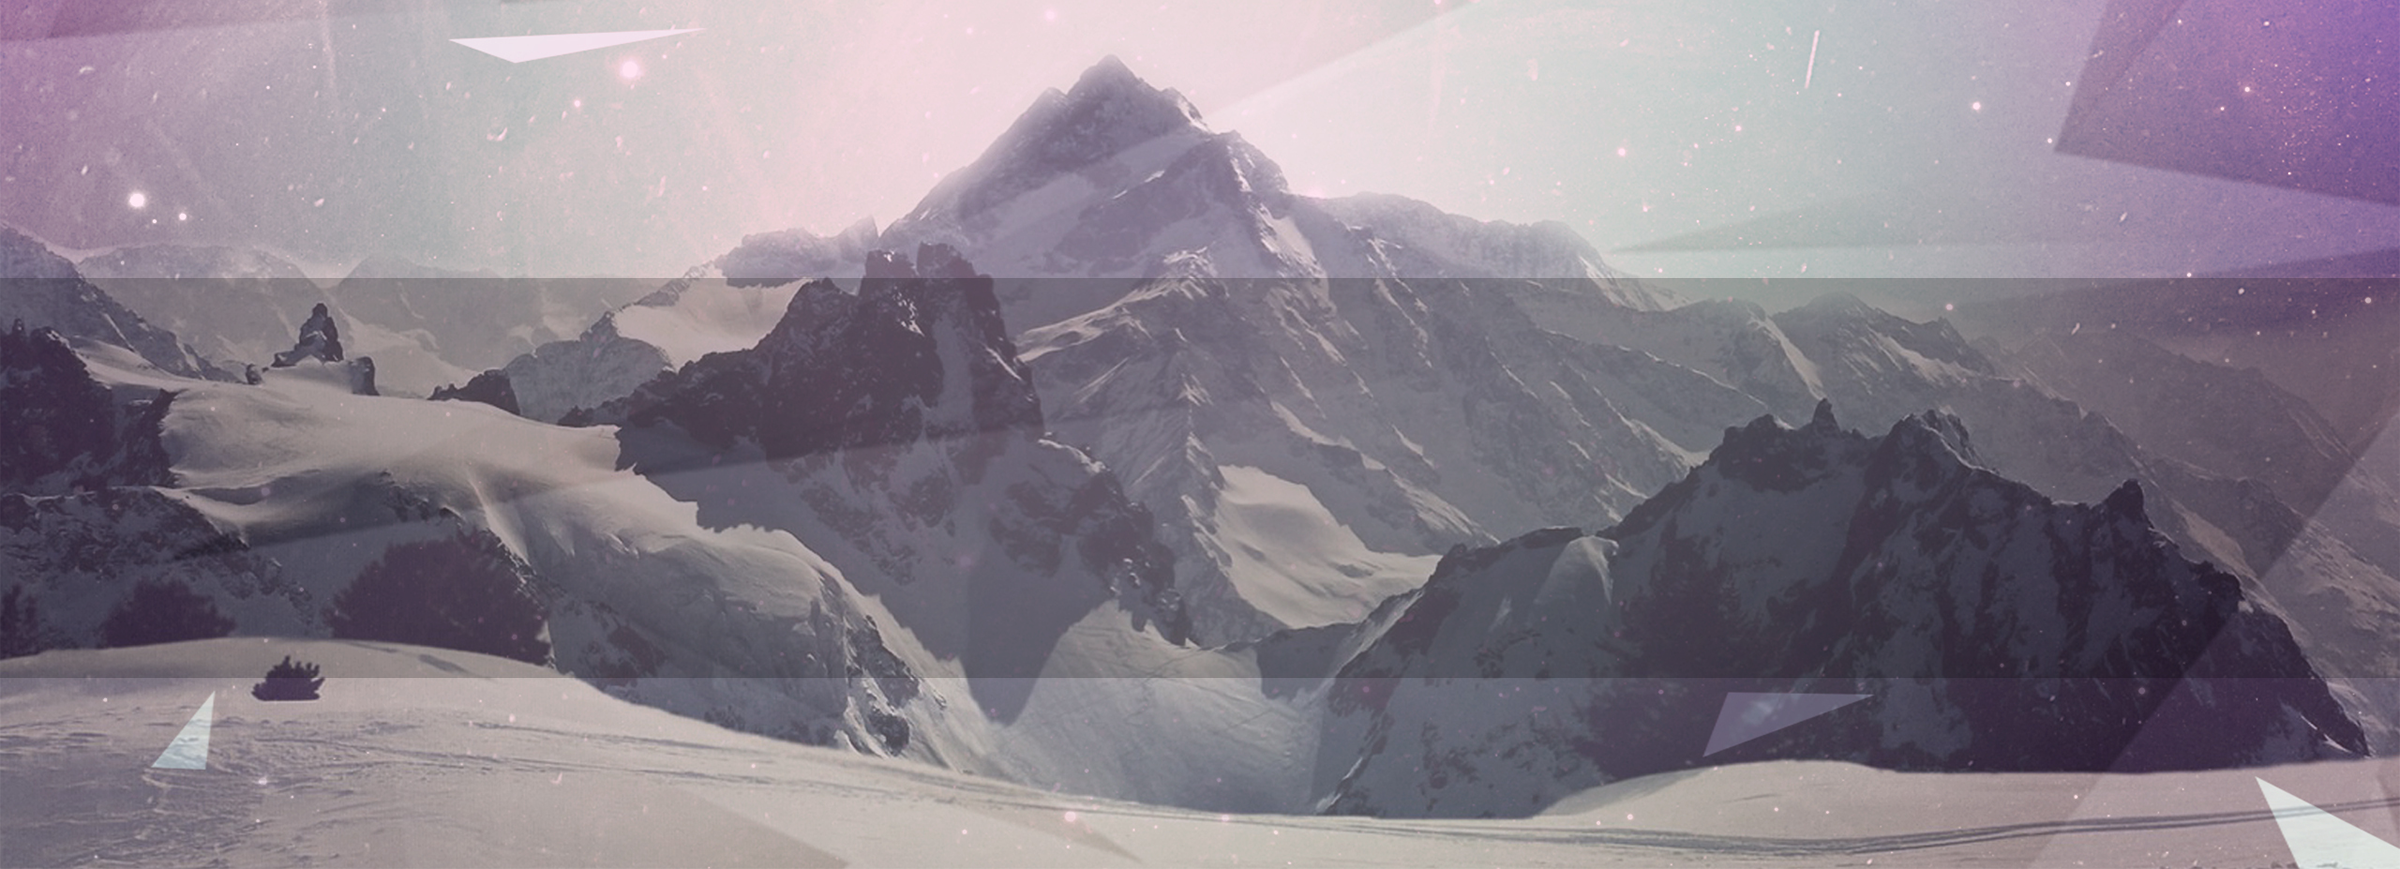
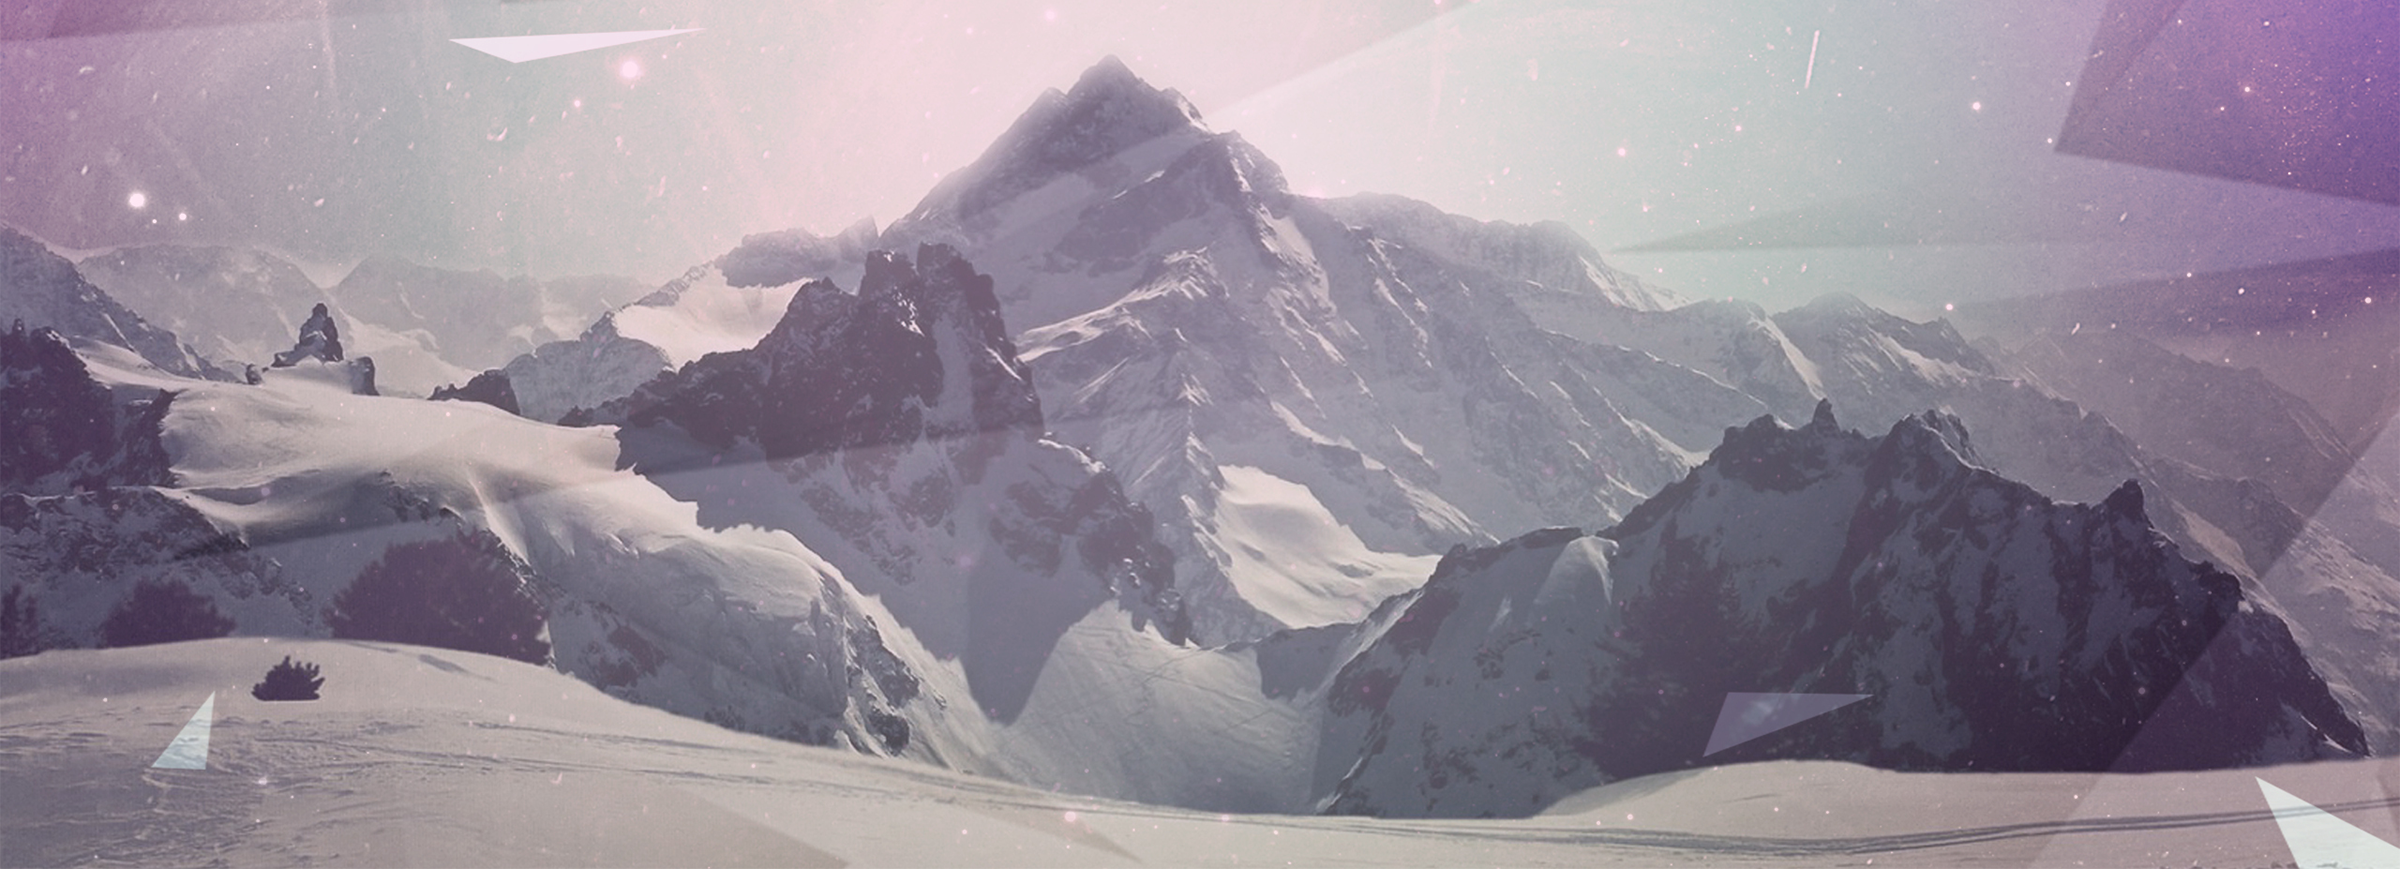
slider__controls 768

Changed region(s): [[0.0, 0.3107, 1.0, 0.8078], [0.125, 0.6214, 0.1562, 0.6525]]

diff --git a/homework_7-8/css/style.css b/homework_7-8/css/style.css
@@ -21,7 +21,6 @@ body {
 }
 .wrapper {
   overflow: hidden;
-  
 }
 .container {
   max-width: 960px;
@@ -110,21 +109,29 @@ body {
   position: relative;
   margin-top: 115px;
 }
+.slider__bg {
+  width: 100%;
+  height: 400px;
+  background: url(../img/slider-bg.png) no-repeat  center top;
+  position: absolute;
+  top: 278px;
+
+}
 .slide1 {
-  
+  z-index: 1;
   position: relative;
 }
-.slide1:before {
+.slider:before {
   content: "";
   position: absolute;
   background-image: url(../img/spritesheet.png);
   top: 197px;
   left: -319px;
   width: 30px;
-    height: 42px;
-    background-position: -5px -126px;
+  height: 42px;
+  background-position: -5px -126px;
 }
-.slide1:after {
+.slider:after {
   content: "";
   position: absolute;
   background-image: url(../img/spritesheet.png);
@@ -215,9 +222,9 @@ body {
 }
 .features__item {
   display: inline-block;
-  padding-left: 64px;
-  width: 225px;
-  margin-right: 46px;
+  padding-left: 6.7%;
+  width: 23.4%;
+  margin-right: 4.8%;
   color: #fff;
 }
 .features__item:last-child {
@@ -249,7 +256,7 @@ body {
   font-size: 18px;
   font-weight: 300;
   color: #fff;
-  margin-left: 159px;
+  margin-left: 71%;
 }
 .features__item a:hover {
   text-shadow: 0 0 20px #d5d2d7;
@@ -595,7 +602,7 @@ body {
   font-weight: bold;
 }
 
-
+/****************** 860 *******************/
 
 @media (max-width: 860px) {
   .logo {
@@ -624,22 +631,33 @@ body {
     width: 768px;
     
   }
+  .logo {
+    margin-bottom: 29px;
+  }
   .main-nav {
   float: left;
   
 }
 .slider {
 
-    margin-top: 152px;
+    margin-top: 112px;
   }
   
+  .slider__bg {
+  
+  top: 244px;
+  
+}
+  
   .slider__img {
-    margin-left: 57.3%;
+    margin-left: 55.7%;
+    margin-bottom: 20px;
   }
   
   .slide__article {
     padding-left: 25px;
     width: 40%;
+    margin-top: 101px;
   }
   
   .slide__article h1 {
@@ -652,13 +670,24 @@ body {
 }
 .slide__article p {
   font-size: 16px;
+  max-height: 100px;
+  overflow-y: hidden;
 }
 
   .slider__control {
-  margin-left: 71%;
+  margin-left: 68%;
   }
 
+  .slider:before {
   
+  left: -24px;
+  
+}
+.slider:after {
+  
+  left: 722px;
+  
+}
   
 }
 

diff --git a/homework_7-8/index.html b/homework_7-8/index.html
@@ -49,7 +49,7 @@
           </div>
         </div>
     </header>
-    
+    <div class="slider__bg"></div>
     
     <div class="features">
       <div class="container">
